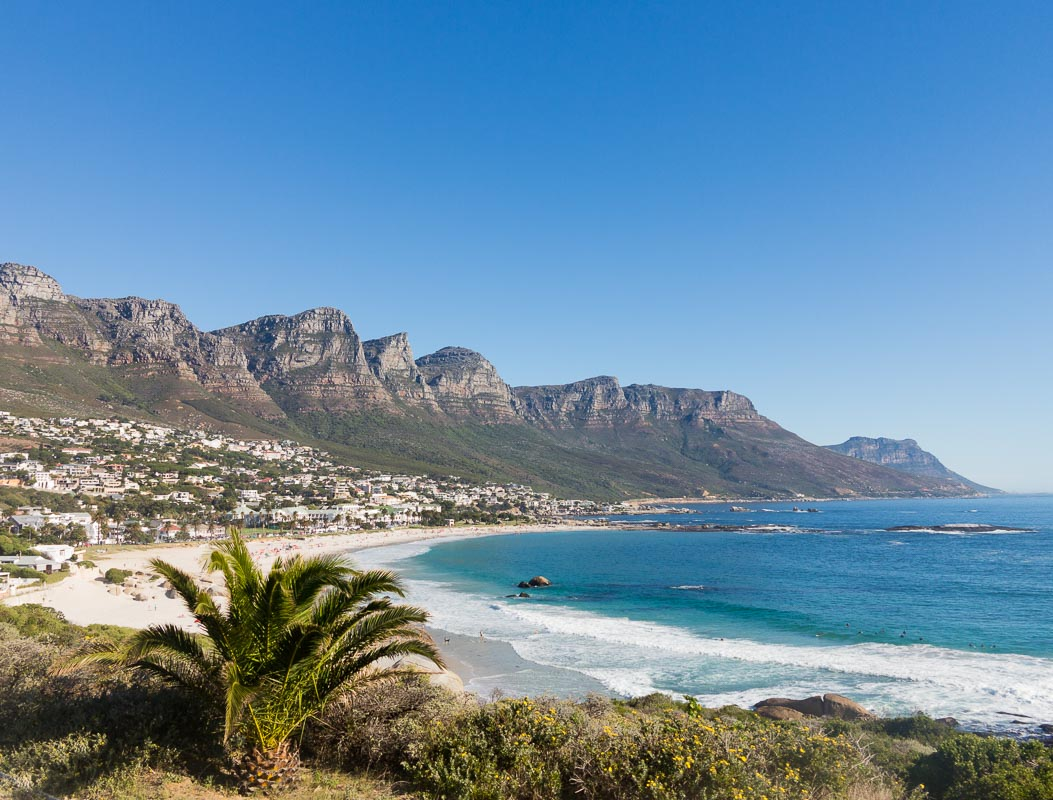
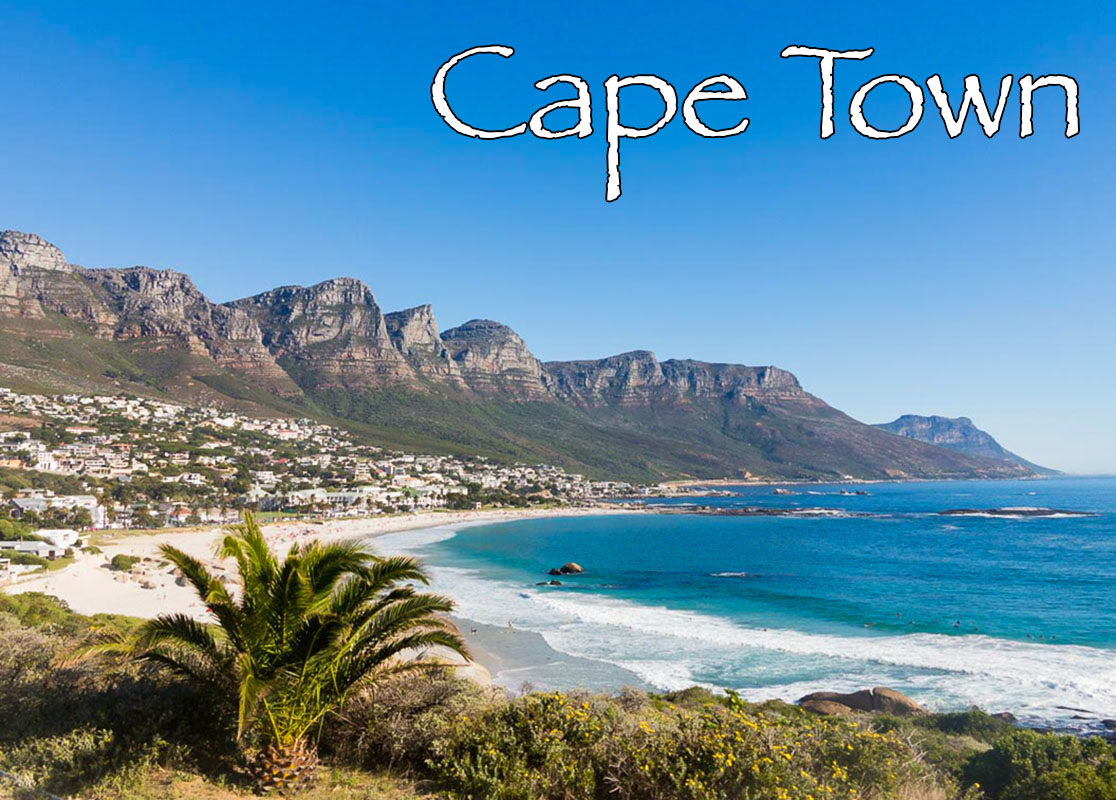
Adding image uploading to user show page, did styling for user show page and some style changes to homepage

diff --git a/app/assets/stylesheets/destinations.scss b/app/assets/stylesheets/destinations.scss
@@ -7,21 +7,47 @@
   max-width: 500px;
   margin: 5px;
 }
-.show_img {
+.destination {
+  margin-left: auto;
+  margin-right: auto;
+}
+.large_img {
   max-height: 300px;
-  max-width: 90%;
+}
+#thumbs {
+  padding-top: 10px;
+  overflow: hidden;
+}
+#thumbs img, #largeImage {
+   border: 1px solid gray;
+   padding: 4px;
+   background-color: white;
+   cursor: pointer;
+}
+#thumbs img {
+   float: left;
+   margin-right: 6px;
+}
+#panel {
+    position: relative;
 }
 .extra_img {
-  max-height: 100px;
-  max-width: 200px;
+  height: 95px;
+  max-width: 140px;
+
 }
 .sidebar {
-  float: left;
+  // float: left;
+  height: 100%;
+}
+.map {
+  height: 100%;
 }
 
 #map {
   width: 100%;
   height: 600px;
   background-color: grey;
-  float: right;
+  // float: right;
+  margin-bottom: 3rem;
 }

diff --git a/app/assets/stylesheets/application.scss b/app/assets/stylesheets/application.scss
@@ -1,8 +1,12 @@
 @import 'colours';
+* {
+    margin: 0;
+}
 html, body {
   overflow-x: hidden;
   font-family: helvetica, sans-serif;
   height: 100%;
+  min-height: 100%;
 }
 header {
   background-color: map-get($colours, darkblue);
@@ -49,22 +53,27 @@ header {
 }
 .main {
   padding: 0 3rem;
-  margin-bottom: 9rem;
+  margin-bottom: 10rem;
 }
 #wrap {
   min-height: 100%;
-  height: auto;
+  height: auto !important;
+  // height: 100%;
   /* Negative indent footer by its height */
   margin: 0 auto -8rem;
   padding: 0 0 8rem;
 }
-.footer, .main:after {
+.push {
   height: 8rem;
 }
+
 footer {
   color: white;
   background-color: map-get($colours, darkblue);
   height: 8rem;
+  clear: both;
+  bottom: 0px;
+  width: 100%;
   p {
     float: right;
     padding: 2rem;

diff --git a/app/assets/stylesheets/homepage.scss b/app/assets/stylesheets/homepage.scss
@@ -54,19 +54,22 @@
 }
 .home-featured-destinations {
   margin-bottom: 2rem;
+  margin: 0 2rem 5rem 2rem;
   .feature-dest {
-    min-height: 300px;
+    height: 300px;
+    display: inline-block;
   }
   .destinations {
     border: 3px solid black;
     padding: 2rem;
     height: 100%;
-    min-width: 350px;
     background-color: #F9FFFF;
     box-shadow: 3px 6px 5px 0px rgba(51,51,51,0.75);
+
   }
   img {
     max-width: 300px;
+    height: 190px;
     width: 100%;
     margin-left: auto;
     margin-right: auto;

diff --git a/app/assets/stylesheets/users.scss b/app/assets/stylesheets/users.scss
@@ -1,3 +1,22 @@
 // Place all the styles related to the Users controller here.
 // They will automatically be included in application.css.
 // You can use Sass (SCSS) here: http://sass-lang.com/
+.user_img {
+  max-height: 300px;
+  max-width: 300px;
+  margin: 3rem 0 1rem 0;
+  img {
+    max-height: 100%;
+    max-width :100%;
+  }
+}
+.user {
+  margin: 5rem auto 1rem;
+
+}
+.options {
+  margin-bottom: 5rem;
+}
+.my_trips {
+  margin: 3rem auto;
+}

diff --git a/db/seeds.rb b/db/seeds.rb
@@ -17,25 +17,31 @@ module SeedData
         User.create(username: "Simba", email: "lion@king.com", password: "123456")
       end
       unless Destination.find_by(name: "London")
-        london = Destination.create(name: "London", default_img: "London.jpg", img1: "London-005.jpg", description: "Capital City of the UK. Filled with wonderful sites from Buckingham Palace to the British Museum.", lat: 51.505234, lng: -0.128919)
+        london = Destination.create(name: "London", default_img: "London.jpg", img1: "London-005.jpg", img2: "London-004.jpg", description: "Capital City of the UK. Filled with wonderful sites from Buckingham Palace to the British Museum.", lat: 51.505234, lng: -0.128919)
       end
       unless Destination.find_by(name: "Iceland")
-        iceland = Destination.create(name: "Iceland", default_img: "Iceland.jpg", description: "This amazing country is full of natural wonder and adventure.", lat: 64.1265, lng: -21.8174)
+        iceland = Destination.create(name: "Iceland", default_img: "Iceland.jpg",img1: "Iceland-002.jpg", img2: "Northern-Lights.jpg", description: "This amazing country is full of natural wonder and adventure.", lat: 64.1265, lng: -21.8174)
       end
       unless Destination.find_by(name: "Brazil")
-        brazil = Destination.create(name: "Brazil", default_img: "Brazil.jpg", description: "This amazing country in South America with vibrant cities and amazing scenery.", lat: -22.9068, lng: -43.1729)
+        brazil = Destination.create(name: "Brazil", default_img: "Brazil.jpg", img1: "Brazil-002.jpg", img2: "Brazil-008.jpg", description: "This amazing country in South America with vibrant cities and amazing scenery.", lat: -22.9068, lng: -43.1729)
       end
       unless Destination.find_by(name: "Prague")
-        prague = Destination.create(name: "Prague", default_img: "Prague.jpg", description: "This amazing city in Eastern Europe with a charm all its own.", lat: 50.086743, lng: 14.419526)
+        prague = Destination.create(name: "Prague", default_img: "Prague.jpg", img1: "Prague-clock.jpg", img2: "Prague-castle.jpg",description: "This amazing city in Eastern Europe with a charm all its own.", lat: 50.086743, lng: 14.419526)
       end
       unless Destination.find_by(name: "Washington DC")
-        washington = Destination.create(name: "Washington DC", default_img: "Washington.jpg", description: "Washington DC is the capital of the USA. It is filled with great museums and memorials.", lat: 38.891178, lng: -77.039417)
+        washington = Destination.create(name: "Washington DC", default_img: "Washington.jpg", img1: "Washington-10.jpg", img2: "Washington-2.jpg", description: "Washington DC is the capital of the USA. It is filled with great museums and memorials.", lat: 38.891178, lng: -77.039417)
       end
       unless Destination.find_by(name: "Sydney")
-        sydney = Destination.create(name: "Sydney", default_img: "Sydney.jpg", description: "Sydney is an amazing city in Australia with so many exciting things to do.", lat: -33.857577, lng: 151.214628)
+        sydney = Destination.create(name: "Sydney", default_img: "Sydney.jpg", img1: "Sydney-5.jpg", description: "Sydney is an amazing city in Australia with so many exciting things to do.", lat: -33.857577, lng: 151.214628)
+      end
+      unless Destination.find_by(name: "Cape Town")
+        hawaii = Destination.create(name: "Cape Town", default_img: "South-Africa.jpg", description: "Cape Town is a beautiful city in South Africa and not far from adventure.", lat: -33.917317, lng: 18.415813)
+      end
+      unless Destination.find_by(name: "Niagara Falls")
+        hawaii = Destination.create(name: "Niagara Falls", default_img: "Niagara-3.jpg", img1: "Niagara-9.jpg", img2: "Niagara-10.jpg", description: "Niagara falls is an amazing Waterfall between Canada and the USA.", lat: 43.079765, lng: -79.075832)
       end
       unless Destination.find_by(name: "Hawaii")
-        hawaii = Destination.create(name: "Hawaii", default_img: "Hawaii.jpg", description: "Kauai is one of the most beautiful of all the Hawaiian Islands.", lat: 22.104412, lng: -159.501731)
+        hawaii = Destination.create(name: "Hawaii", default_img: "Hawaii.jpg", img1: "Hawaii-2.jpg", img2: "Hawaii-15.jpg", description: "Kauai is one of the most beautiful of all the Hawaiian Islands.", lat: 22.104412, lng: -159.501731)
       end
       unless Tour.find_by(name: "Learn to Surf")
         Tour.create(name: "Learn to Surf", default_img: "Hawaii-8.jpg", destination_id: hawaii.id, description: "Learn to surf on the amazing Island of Kauai.", lat: 22.204784, lng: -159.501112)

diff --git a/db/schema.rb b/db/schema.rb
@@ -10,7 +10,7 @@
 #
 # It's strongly recommended that you check this file into your version control system.
 
-ActiveRecord::Schema.define(version: 20170202100956) do
+ActiveRecord::Schema.define(version: 20170203141748) do
 
   # These are extensions that must be enabled in order to support this database
   enable_extension "plpgsql"
@@ -26,6 +26,11 @@ ActiveRecord::Schema.define(version: 20170202100956) do
     t.datetime "created_at",  null: false
     t.datetime "updated_at",  null: false
     t.integer  "score"
+  end
+
+  create_table "image_uploaders", force: :cascade do |t|
+    t.datetime "created_at", null: false
+    t.datetime "updated_at", null: false
   end
 
   create_table "tours", force: :cascade do |t|
@@ -88,6 +93,7 @@ ActiveRecord::Schema.define(version: 20170202100956) do
     t.datetime "updated_at",                          null: false
     t.string   "provider"
     t.string   "uid"
+    t.text     "image_data"
     t.index ["email"], name: "index_users_on_email", unique: true, using: :btree
     t.index ["reset_password_token"], name: "index_users_on_reset_password_token", unique: true, using: :btree
   end

diff --git a/config/initializers/shrine.rb b/config/initializers/shrine.rb
@@ -1,0 +1,21 @@
+require "shrine"
+require "shrine/storage/s3"
+# require "shrine/storage/file_system"
+
+s3_options = {
+  access_key_id: ENV["s3_access_id"],
+  secret_access_key: ENV["s3_secret"],
+  region: ENV["s3_region"],
+  bucket: ENV["s3_bucket"]
+}
+
+Shrine.storages = {
+  # cache: Shrine::Storage::FileSystem.new("public", prefix: "uploads/cache"), # temporary
+  # store: Shrine::Storage::FileSystem.new("public", prefix: "uploads/store"), # permanent
+
+  cache: Shrine::Storage::S3.new(prefix: "cache", **s3_options), # temporary
+  store: Shrine::Storage::S3.new(prefix: "store", **s3_options) # permanent
+}
+
+Shrine.plugin :activerecord
+Shrine.plugin :cached_attachment_data # for forms

diff --git a/app/models/image_uploader.rb b/app/models/image_uploader.rb
@@ -1,0 +1,21 @@
+class ImageUploader < Shrine
+  # include ImageProcessing::MiniMagick
+  #
+  # plugin :determine_mime_type
+  # plugin :remove_attachment
+  # plugin :store_dimensions
+  # plugin :validation_helpers
+  # plugin :pretty_location
+  # plugin :processing
+  # plugin :versions
+  #
+  # Attacher.validate do
+  #   validate_max_size 5.megabytes, message: 'is too large (max is 5 MB)'
+  #   validate_mime_type_inclusion ['image/jpeg', 'image/png', 'image/gif']
+  # end
+  #
+  # process(:store) do |io|
+  #   thumb = resize_to_limit!(io.download, 200, 200)
+  #   { original: io, thumb: thumb }
+  # end
+end

diff --git a/app/controllers/users_controller.rb b/app/controllers/users_controller.rb
@@ -25,7 +25,7 @@ class UsersController < ApplicationController
 
   def user_params
     unless params[:is_admin]
-      params.require(:user).permit(:username, :password, :email, :from_location, :current_location, :bio)
+      params.require(:user).permit(:username, :password, :email, :from_location, :current_location, :bio, :image)
     else
 
     end

diff --git a/app/models/user.rb b/app/models/user.rb
@@ -1,3 +1,4 @@
+
 class User < ApplicationRecord
   # Include default devise modules. Others available are:
   # :confirmable, :lockable, :timeoutable and :omniauthable
@@ -10,5 +11,6 @@ class User < ApplicationRecord
   has_many :trips
   has_many :tours, through: :user_tours
 
+  include ImageUploader[:image] # adds an `image` virtual attribute
 
 end

diff --git a/app/models/destination.rb b/app/models/destination.rb
@@ -2,4 +2,7 @@ class Destination < ApplicationRecord
   has_many :trips
   has_many :tours
 
+  # def big_or_small_image(destination)
+  #   image_tag("#{destination.default_img}", alt:"#{destination.name}", class: "show_img" )
+  # end
 end

diff --git a/db/migrate/20170203141748_create_image_uploaders.rb b/db/migrate/20170203141748_create_image_uploaders.rb
@@ -1,0 +1,8 @@
+class CreateImageUploaders < ActiveRecord::Migration[5.0]
+  def change
+    create_table :image_uploaders do |t|
+
+      t.timestamps
+    end
+  end
+end
